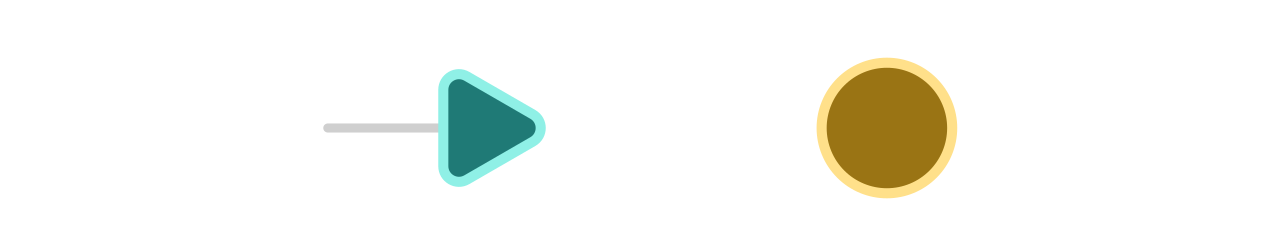
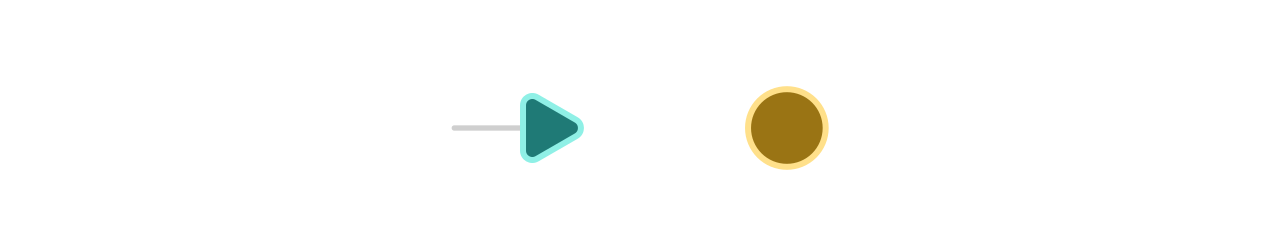
manim: safer theme-specific gif rendering

Changed region(s): [[0.5625, 0.2456, 0.75, 0.8904], [0.25, 0.307, 0.4688, 0.8289]]

diff --git a/docs/src/assets/feature-clips.css b/docs/src/assets/feature-clips.css
@@ -1,7 +1,7 @@
 /* Homepage feature clips (docs/animations/*.py).
- * Transparent GIFs sit directly on the article background; the light/dark pair is
- * selected by themed-figures.css. Under prefers-reduced-motion the static posters
- * replace the GIFs.
+ * Every clip image starts hidden so Documenter's `article img { display: block }`
+ * cannot stack the light and dark assets. Animated GIFs are shown only when the
+ * reader has not requested reduced motion; posters are shown only when they have.
  */
 
 article .feature-clip {
@@ -16,6 +16,13 @@ article .feature-clip img {
   margin-right: auto;
 }
 
+/* Beat themed-figures.css, whose dark-theme rule is
+   `html.theme--… .theme-figure-dark { display: block !important }`. */
+article .feature-clip img.clip-motion,
+article .feature-clip img.clip-poster {
+  display: none !important;
+}
+
 article .feature-clip img[src*="contraction-"] {
   width: min(100%, 58em);
 }
@@ -26,28 +33,24 @@ article .feature-clip figcaption {
   opacity: 0.85;
 }
 
-/* One theme at a time. These beat Documenter's `article img { display: block }`. */
-article .feature-clip img.theme-figure-light {
-  display: block !important;
-}
+@media (prefers-reduced-motion: no-preference) {
+  article .feature-clip img.theme-figure-light.clip-motion {
+    display: block !important;
+  }
 
-article .feature-clip img.theme-figure-dark,
-article .feature-clip img.clip-poster {
-  display: none !important;
-}
+  html.theme--documenter-dark article .feature-clip img.theme-figure-light.clip-motion,
+  html.theme--catppuccin-mocha article .feature-clip img.theme-figure-light.clip-motion,
+  html.theme--catppuccin-macchiato article .feature-clip img.theme-figure-light.clip-motion,
+  html.theme--catppuccin-frappe article .feature-clip img.theme-figure-light.clip-motion {
+    display: none !important;
+  }
 
-html.theme--documenter-dark article .feature-clip img.theme-figure-light,
-html.theme--catppuccin-mocha article .feature-clip img.theme-figure-light,
-html.theme--catppuccin-macchiato article .feature-clip img.theme-figure-light,
-html.theme--catppuccin-frappe article .feature-clip img.theme-figure-light {
-  display: none !important;
-}
-
-html.theme--documenter-dark article .feature-clip img.theme-figure-dark.clip-motion,
-html.theme--catppuccin-mocha article .feature-clip img.theme-figure-dark.clip-motion,
-html.theme--catppuccin-macchiato article .feature-clip img.theme-figure-dark.clip-motion,
-html.theme--catppuccin-frappe article .feature-clip img.theme-figure-dark.clip-motion {
-  display: block !important;
+  html.theme--documenter-dark article .feature-clip img.theme-figure-dark.clip-motion,
+  html.theme--catppuccin-mocha article .feature-clip img.theme-figure-dark.clip-motion,
+  html.theme--catppuccin-macchiato article .feature-clip img.theme-figure-dark.clip-motion,
+  html.theme--catppuccin-frappe article .feature-clip img.theme-figure-dark.clip-motion {
+    display: block !important;
+  }
 }
 
 @media (prefers-reduced-motion: reduce) {

diff --git a/docs/animations/pt_contraction.py b/docs/animations/pt_contraction.py
@@ -893,7 +893,7 @@ def _bounds(mobs: list[VMobject]) -> tuple[float, float, float, float]:
 
 
 def plan_zoom_results(scene: "PTContractionScene") -> Beat:
-    """Bring the two results together in the middle of the frame and zoom in on them."""
+    """Bring the two results together in the middle of the frame and zoom in by 1.2×."""
     left_mobs = _result_mobs(scene.panels[0])
     right_mobs = _result_mobs(scene.panels[1])
     ll, lr, lb, lt = _bounds(left_mobs)
@@ -908,11 +908,8 @@ def plan_zoom_results(scene: "PTContractionScene") -> Beat:
     move = rate_functions.smooth
     anims = [mob.animate(run_time=TIMING["zoom"], rate_func=move).shift(point(dx_l, dy_l)) for mob in left_mobs]
     anims += [mob.animate(run_time=TIMING["zoom"], rate_func=move).shift(point(dx_r, dy_r)) for mob in right_mobs]
-    width_after = (rr + dx_r) - (ll + dx_l)
-    height_after = max(lt + dy_l, rt + dy_r) - min(lb + dy_l, rb + dy_r)
     frame = scene.camera.frame
-    aspect = frame.width / frame.height
-    width = min(frame.width, max(width_after, height_after * aspect) * 2.05)
+    width = frame.width / 1.2
     anims.append(frame.animate(run_time=TIMING["zoom"], rate_func=move).move_to(point(0.0, 0.0)).set(width=width))
     return Beat(name="zoom_results", animations=anims, discard=[frame])
 

diff --git a/docs/src/index.md b/docs/src/index.md
@@ -14,9 +14,10 @@ using it to design numerical experiments.
 When a system interacts with an environment, its present reduced state may not
 contain all the information needed to predict its future. The environment can
 retain information about earlier interactions and interventions. A process tensor
-stores this bath response which can readily be used on various system interventions. 
-ProcessTensors.jl  primarily uses MPS/MPO infrastructure to define and manipulate 
-process tensors in a memory-efficient way. 
+describes how the system responds to interventions at different times, including
+the influence of environmental memory. ProcessTensors.jl represents this
+multi-time response using matrix product operators, allowing the same process
+tensor to be reused across different experiments. 
 
 ```@raw html
 <figure class="feature-clip">
@@ -24,7 +25,7 @@ process tensors in a memory-efficient way.
   <img class="theme-figure-dark clip-motion" loading="lazy" src="assets/animations/ace-dark.gif" alt="Time runs right to left. Two environment modes over three time steps are absorbed column by column and compressed into a three-core process tensor with downward system legs.">
   <img class="theme-figure-light clip-poster" loading="lazy" src="assets/animations/ace-light-poster.png" alt="A three-core process tensor with downward system legs, produced by ACE compression of two environment modes.">
   <img class="theme-figure-dark clip-poster" loading="lazy" src="assets/animations/ace-dark-poster.png" alt="A three-core process tensor with downward system legs, produced by ACE compression of two environment modes.">
-  <figcaption><strong>Construct a process tensor:</strong> Compress the influence of multiple environmental modes into a single process tensor MPO using state-of-the-art algorithms.</figcaption>
+  <figcaption><strong>Construct a process tensor:</strong> Combine the influence of independent environmental modes and compress the resulting temporal bonds using ACE.</figcaption>
 </figure>
 
 <figure class="feature-clip">
@@ -65,34 +66,18 @@ threading, and execution settings, see [Advanced Usage](advanced_usage.md).
 
 ## What can you explore?
 
-| Task | Package workflow |
+| What can you explore? | Suggested walkthrough |
 | --- | --- |
-| Construct a microscopic process | Define spin or bosonic bath modes and build a `ProcessTensor`. |
-| Choose a construction method | Use `Dense()` for small environments or `ACE()` to incorporate and compress independent bath modes. |
-| Apply interventions | Assemble preparations, controls, and outcome-resolved operations in an `InstrumentSeq`. |
-| Obtain reduced states and statistics | Use `evolve` for trajectories and `evaluate_process` for general contractions. |
-| Probe multi-time correlations | Insert operators at different times while retaining the environmental influence. |
-| Include an ancillary memory | Use testers to describe experiments with an ancilla carried between interventions. |
-| Inspect the temporal representation | Examine input/output legs and memory bonds to understand the stored network. |
+| Build a process from several environmental modes | [Spin-bath process tensor](examples/spin_bath_process_tensor.md) |
+| Compress spin and thermal bosonic environments with ACE | [Central-spin dynamics using ACE](examples/central_spin_ace.md); [Thermal spin-boson dynamics using ACE](examples/thermal_spinboson_ace.md) |
+| Design preparations, controls, and measurements | [Explore a process with instruments](tutorials/process_tensor_instruments.md) |
+| Probe bath memory through repeated measurements | [Ramsey readouts as a probe of bath memory](examples/ramsey_povm.md) |
+| Calculate multi-time correlations | [Multi-time correlations](examples/multitime_correlations.md) |
+| Carry an ancillary system between interventions | [Testers and noisy quantum circuit](examples/noisy_quantum_circuit_tester.md) |
 
-`Dense()` retains the full environmental Liouville space. `ACE()` (Automated
-Compression of Environments) incorporates initially independent bath modes
-sequentially and compresses their temporal influence. 
-
-Gaussian PT-TEMPO and chain-mapped constructions remain development directions.
-
-## Continue with process-tensor workflows
-
-| Goal | Walkthrough |
-| --- | --- |
-| Construct your first process tensor | [Construct your first process tensor](tutorials/process_tensor_singlemode.md) |
-| Probe that process with instruments | [Explore a process with instruments](tutorials/process_tensor_instruments.md) |
-| Extend to several bath modes | [Spin-bath process tensor](examples/spin_bath_process_tensor.md) |
-| Compress an independent spin environment | [Central-spin dynamics using ACE](examples/central_spin_ace.md) |
-| Construct a thermal bosonic environment | [Thermal spin-boson dynamics using ACE](examples/thermal_spinboson_ace.md) |
-| Explore repeated measurements and resets | [Ramsey readouts as a probe of bath memory](examples/ramsey_povm.md) |
-| Evaluate multi-time operator insertions | [Multi-time correlations](examples/multitime_correlations.md) |
-| Use an ancillary tester | [Testers and noisy quantum circuit](examples/noisy_quantum_circuit_tester.md) |
+Use `Dense()` for small environments or `ACE()` to incorporate initially
+independent bath modes and compress their temporal influence. Gaussian PT-TEMPO
+and chain-mapped constructions are planned extensions.
 
 ## Additional tools for open quantum dynamics
 
